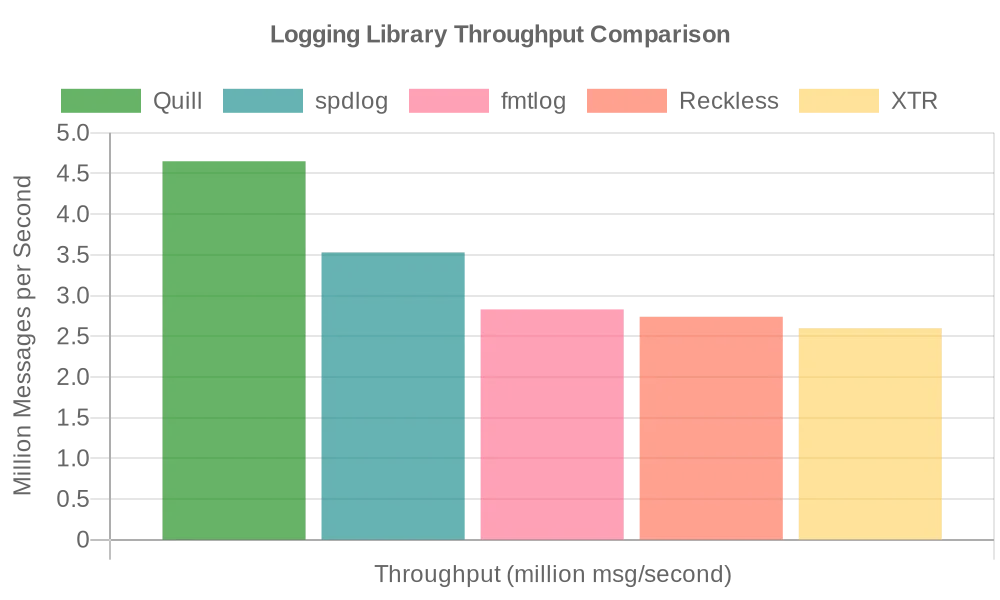
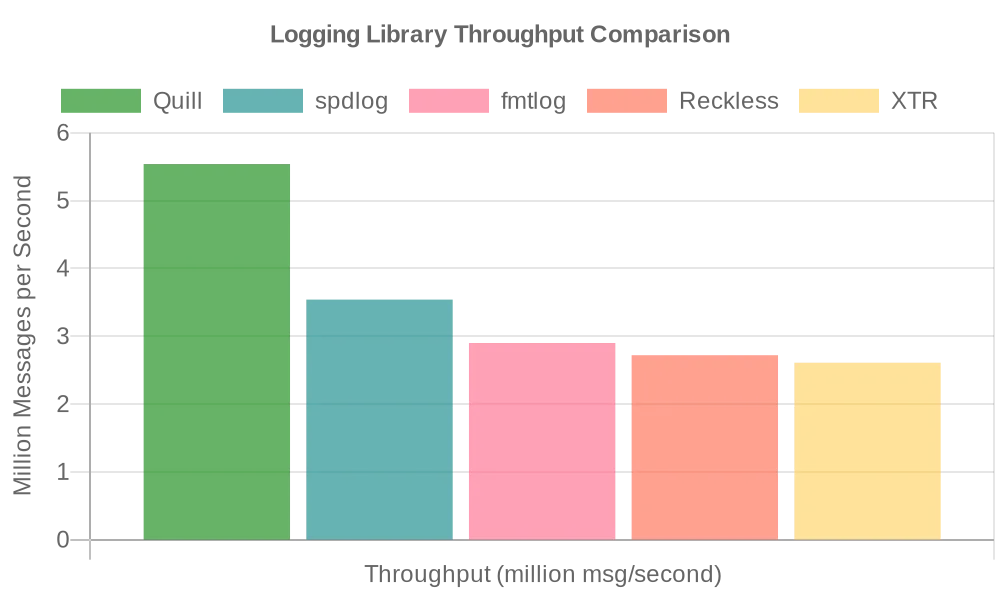
update README.md

diff --git a/scripts/generate_throughput_chart_url.py b/scripts/generate_throughput_chart_url.py
@@ -78,13 +78,13 @@ def generate_chart_url(markdown_table, title):
 
 # Define the markdown table
 markdown_table = """
-| Library                                              | million msg/second | elapsed time |
-|------------------------------------------------------|:------------------:|:------------:|
-| [Quill](http://github.com/odygrd/quill)              |        4.65        |    859 ms    |
-| [spdlog](http://github.com/gabime/spdlog)            |        3.53        |   1131 ms    |
-| [fmtlog](http://github.com/MengRao/fmtlog)           |        2.83        |   1411 ms    |
-| [Reckless](http://github.com/mattiasflodin/reckless) |        2.74        |   1459 ms    |
-| [XTR](https://github.com/choll/xtr)                  |        2.60        |   1537 ms    |
+| Library                                                           | million msg/second | elapsed time |
+|-------------------------------------------------------------------|:------------------:|:------------:|
+| [Quill](http://github.com/odygrd/quill)                           |        5.54        |    721 ms    |
+| [spdlog](http://github.com/gabime/spdlog)                         |        3.54        |   1128 ms    |
+| [fmtlog](http://github.com/MengRao/fmtlog)                        |        2.90        |   1378 ms    |
+| [Reckless](http://github.com/mattiasflodin/reckless)              |        2.72        |   1471 ms    |
+| [XTR](https://github.com/choll/xtr)                               |        2.61        |   1534 ms    |
 """
 
 # Generate the chart URL without MS BinLog

diff --git a/README.md b/README.md
@@ -310,12 +310,12 @@ from the table.
 
 | Library                                                           | million msg/second | elapsed time |
 |-------------------------------------------------------------------|:------------------:|:------------:|
-| [MS BinLog (binary log)](http://github.com/Morgan-Stanley/binlog) |       64.98        |    61 ms     |
-| [Quill](http://github.com/odygrd/quill)                           |        4.65        |    859 ms    |
-| [spdlog](http://github.com/gabime/spdlog)                         |        3.53        |   1131 ms    |
-| [fmtlog](http://github.com/MengRao/fmtlog)                        |        2.83        |   1411 ms    |
-| [Reckless](http://github.com/mattiasflodin/reckless)              |        2.74        |   1459 ms    |
-| [XTR](https://github.com/choll/xtr)                               |        2.60        |   1537 ms    |
+| [MS BinLog (binary log)](http://github.com/Morgan-Stanley/binlog) |       63.80        |    62 ms     |
+| [Quill](http://github.com/odygrd/quill)                           |        5.54        |    721 ms    |
+| [spdlog](http://github.com/gabime/spdlog)                         |        3.54        |   1128 ms    |
+| [fmtlog](http://github.com/MengRao/fmtlog)                        |        2.90        |   1378 ms    |
+| [Reckless](http://github.com/mattiasflodin/reckless)              |        2.72        |   1471 ms    |
+| [XTR](https://github.com/choll/xtr)                               |        2.61        |   1534 ms    |
 
 ![throughput_chart.webp](docs%2Fcharts%2Fthroughput_chart.webp)
 
